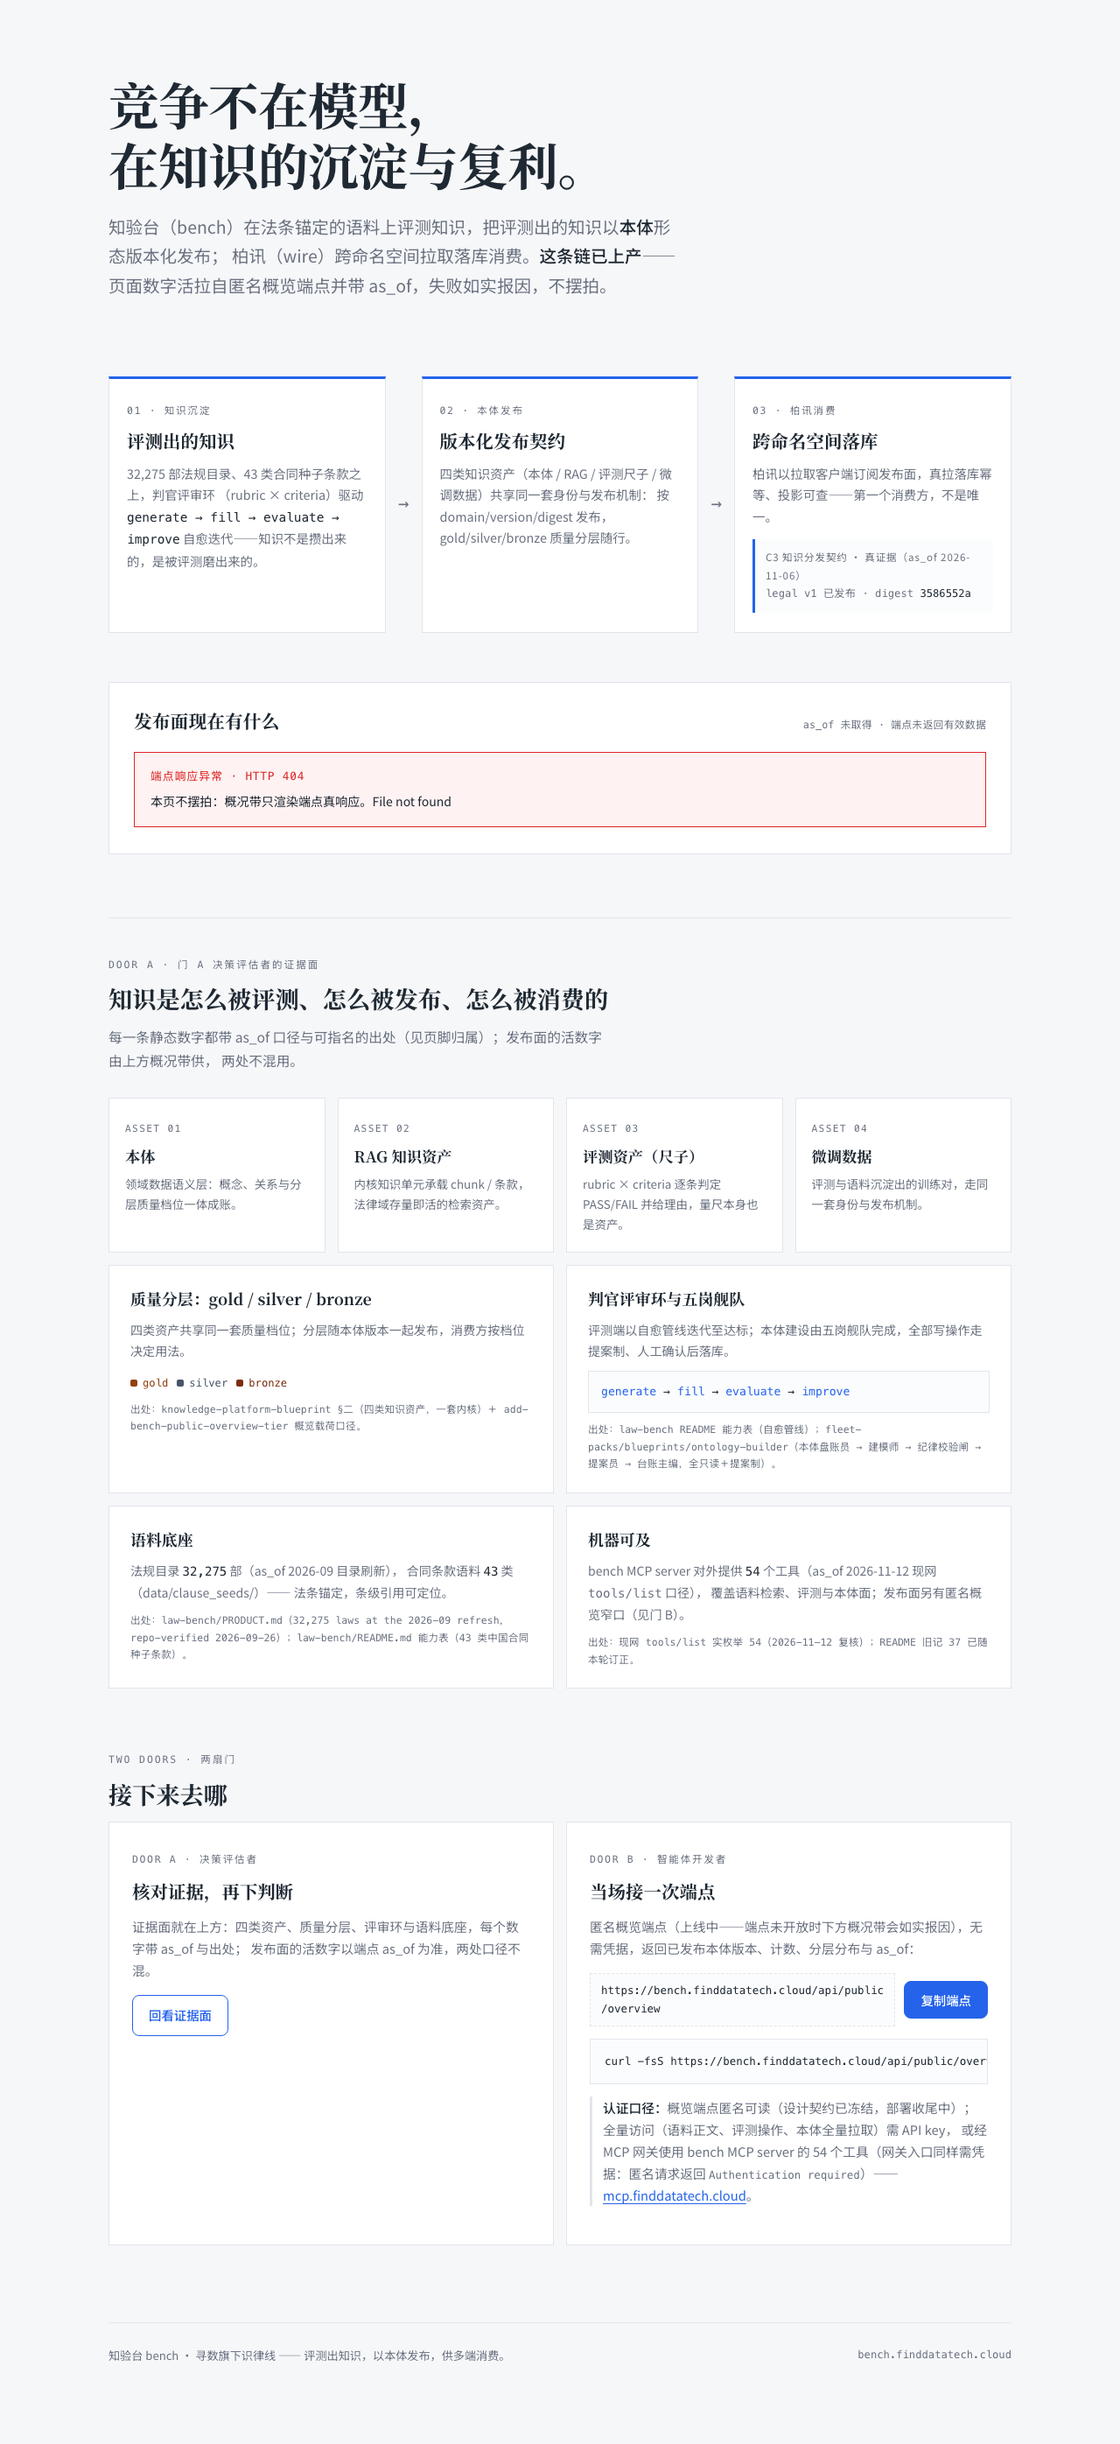
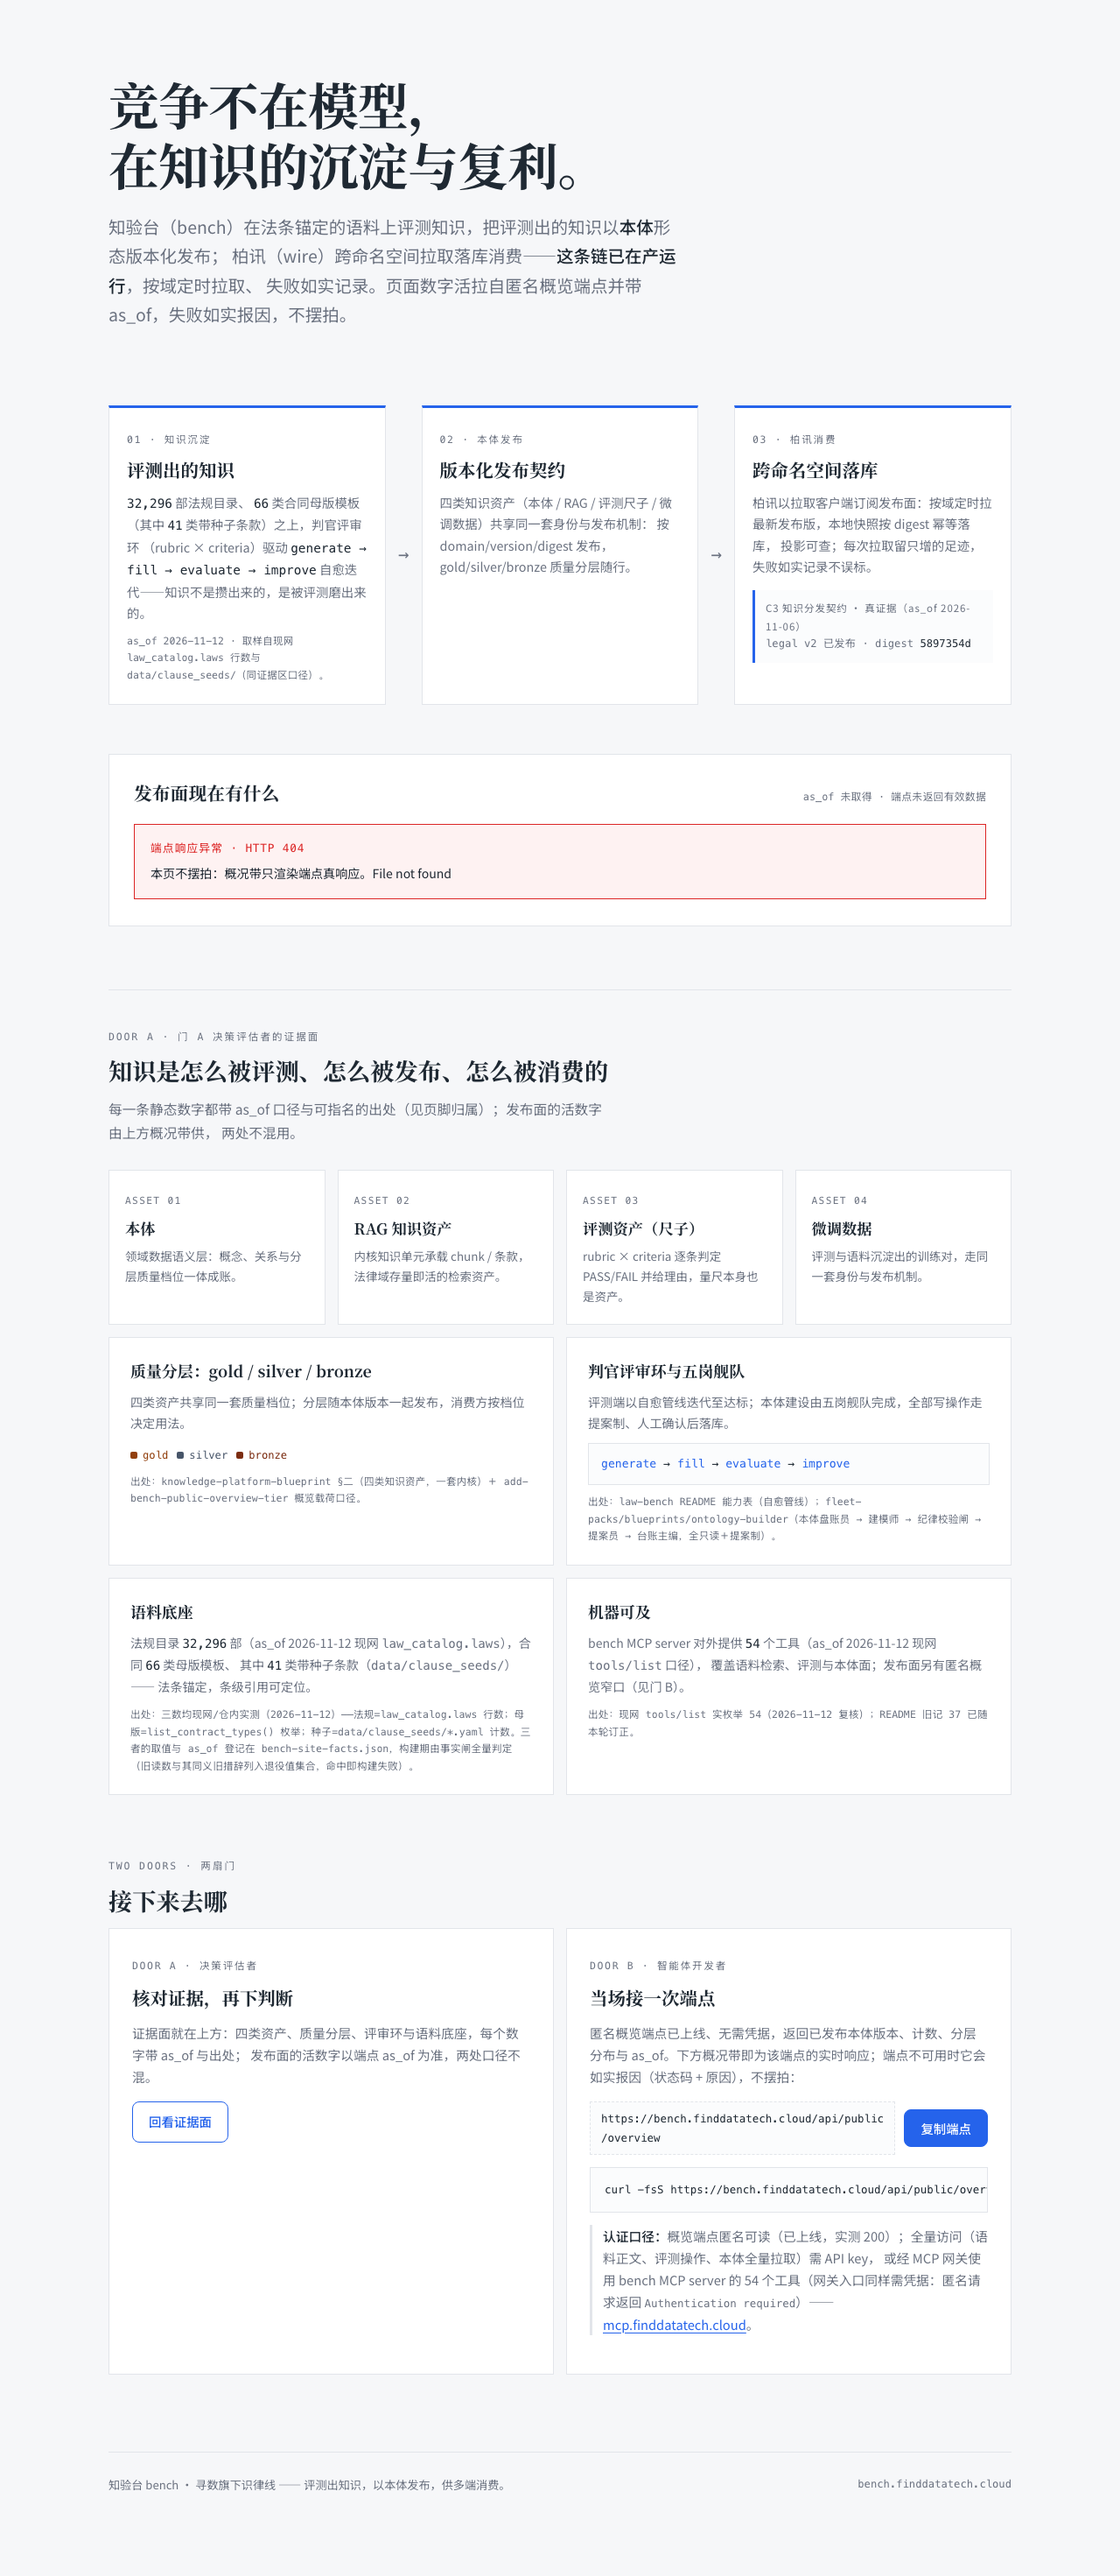
fix(site): 首屏旧数字与门 B 过期文案 —— 并给事实纪律加一道构建期闸
两处都是「spec 写了、从没被执行」的判据：

- 首屏链路节点 ① 仍写 32,275 / 43 类合同种子，同一页证据区写的是 32,296 / 66 母版 /
  41 种子。2026-11-12 的订正只覆盖了证据区，验收报告里「线上旧值命中 0」只对被改的
  那一处成立。归档 change 自己立的 requirement（订正后旧值命中为 0）从未可执行。
- 门 B 仍写「匿名概览端点（上线中…）」「部署收尾中」，而端点已于 11-12 live
  （今日实测 200，legal v2 / 5897354d / 5,117 实体）。

改动：

- `bench-site-facts.json`：事实白名单 + 退役值集合的唯一机器源；brief 不再复述数字。
- `scripts/check_facts.py`：读 dist 全量判定退役值（优先）、白名单外数字、登记了却没上页；
  `--self-check` 五条夹具（1 绿 4 红）证明判据双向有效。
- `scripts/check_status_wording.py`：端点状态陈述探针，三态退出——0 相符 / 1 不符 /
  2 未判定（网络失败不得冒充通过）。
- `.github/workflows/build-check.yml`：本仓第一条 CI，门只有构建 + 事实闸；刻意不并入
  探针（runner 到境内站点抖动会把网络失败变成构建失败，门随后会被绕过）。
- 首屏数字订正、门 B 改按实测陈述；证据区出处注里的旧值原文一并清掉（闸抓出来的）。

diff --git a/scripts/check_facts.py b/scripts/check_facts.py
@@ -1,0 +1,130 @@
+#!/usr/bin/env python3
+"""构建期事实闸：对 dist/ 全量判定白名单与退役值。
+
+为什么读 dist/ 而不是 src/：需要判定的两件事——「白名单外数字」与「退役值命中」——都
+只能对构建产物成立；读源码会漏掉模板拼接与构建期注入。门序因此固定为 build → 本脚本。
+（design D1）
+
+判定顺序：先 retired（命中即失败，无论是否恰等于某个白名单值），再 facts。
+（design D3）
+
+跑法：
+    python3 scripts/check_facts.py                # 读 dist/index.html
+    python3 scripts/check_facts.py --from-remote  # 抓线上产物后判定（上产验收用）
+退出码：0 通过 / 1 失败（含「产物不存在」）。
+"""
+
+from __future__ import annotations
+
+import argparse
+import json
+import re
+import sys
+import urllib.request
+from pathlib import Path
+
+HERE = Path(__file__).resolve().parent
+ROOT = HERE.parent
+FACTS = ROOT / "bench-site-facts.json"
+DIST = ROOT / "dist" / "index.html"
+REMOTE = "https://bench.finddatatech.cloud/"
+
+DATA_RE = re.compile(r'<data[^>]*\bvalue="(\d+)"[^>]*>([^<]*)</data>')
+# 正文里的裸数字串（千分位或纯数字，≥3 位）——只用于「同事实两处口径不一致」与白名单外判定
+BARE_RE = re.compile(r"(?<![\w.,])\d{1,3}(?:,\d{3})+(?![\w,])|(?<![\w.,])\d{4,}(?![\w,])")
+
+
+def fail(lines: list[str]) -> int:
+    for line in lines:
+        print(line, file=sys.stderr)
+    return 1
+
+
+def load_html(from_remote: bool) -> str:
+    if not from_remote:
+        return DIST.read_text(encoding="utf-8")
+    with urllib.request.urlopen(REMOTE, timeout=30) as resp:  # noqa: S310 - 固定 https 目标
+        return resp.read().decode("utf-8")
+
+
+def _check(html: str, spec: dict) -> list[str]:
+    """Return the problem list for one product snapshot (pure)."""
+    problems: list[str] = []
+
+    # ① 退役值优先：出现即失败
+    for item in spec["retired"]:
+        hits = html.count(item["text"])
+        if hits:
+            problems.append(f"✗ 退役值残留：{item['text']!r} 命中 {hits} 次（{item['why']}）")
+
+    # ② 白名单：产物中的 <data value> 必须逐一登记
+    allowed = {str(f["value"]) for f in spec["facts"]}
+    by_value = {str(f["value"]): f for f in spec["facts"]}
+    seen_data: dict[str, int] = {}
+    for value, text in DATA_RE.findall(html):
+        seen_data[value] = seen_data.get(value, 0) + 1
+        if value not in allowed:
+            problems.append(f'✗ 白名单外数字：<data value="{value}">{text}</data>')
+        elif text.strip() != by_value[value]["text"]:
+            problems.append(
+                f'✗ 数字与其登记文本不符：value={value} 产物文本={text.strip()!r} 白名单={by_value[value]["text"]!r}'
+            )
+
+    # ③ 每一条白名单事实都必须在产物中出现（登记了却没上页 = 白名单与页面漂移）
+    for f in spec["facts"]:
+        if str(f["value"]) not in seen_data:
+            problems.append(f"✗ 白名单条目未出现在产物中：{f['id']}（{f['text']}）")
+
+    # ④ 「同一事实两处口径不一致」由 ① + ② 联合覆盖：旧值命中 retired、新值未登记则命中白名单外，
+    #    两者都失败——spec 的判据正是「两处中至少一处被判为白名单外或退役值」。不另做正文裸数字扫描：
+    #    正文里合法地会复述数字（出处注），按形态扫会产生假阳性。
+    return problems
+
+
+def _self_check(spec: dict) -> int:
+    """夹具自检：确认这道闸对「能过」与「该红」都成立（红证纪律）。"""
+    clean = "".join(f'<data value="{f["value"]}">{f["text"]}</data>' for f in spec["facts"])
+    retired_text = spec["retired"][0]["text"]
+    cases = [
+        ("干净产物", clean, False),
+        ("退役值残留", clean + f"<p>{retired_text}</p>", True),
+        ("白名单外数字", clean + '<data value="9999">9,999</data>', True),
+        # 同事实两处口径不一致：首屏旧的 retired 值 + 证据区的新值并存
+        ("同事实两处不一致", clean + f"<p>{retired_text} 部</p>", True),
+        ("白名单条目缺席", clean.replace(f'<data value="{spec["facts"][0]["value"]}">', "<span>"), True),
+    ]
+    bad = 0
+    for name, html, should_fail in cases:
+        got = bool(_check(html, spec))
+        ok = got == should_fail
+        print(f"{'✓' if ok else '✗'} 夹具[{name}] 期望{'红' if should_fail else '绿'} 实得{'红' if got else '绿'}")
+        bad += 0 if ok else 1
+    return 1 if bad else 0
+
+
+def main() -> int:
+    ap = argparse.ArgumentParser()
+    ap.add_argument("--from-remote", action="store_true", help="抓线上产物判定（上产验收）")
+    ap.add_argument("--self-check", action="store_true", help="跑夹具自检（判据本身是否有效）")
+    args = ap.parse_args()
+
+    spec = json.loads(FACTS.read_text(encoding="utf-8"))
+    if args.self_check:
+        return _self_check(spec)
+
+    try:
+        html = load_html(args.from_remote)
+    except FileNotFoundError:
+        return fail([f"✗ 构建产物不存在：{DIST}（先跑 npm run build）"])
+    except Exception as exc:  # noqa: BLE001 - 抓取失败要区分「未判定」而不是「通过」
+        return fail([f"✗ 无法取得产物：{exc}"])
+
+    problems = _check(html, spec)
+    if problems:
+        return fail(problems + [f"\n共 {len(problems)} 处问题。"])
+    print(f"✓ 事实闸通过：白名单 {len(spec['facts'])} 条全在产物中，退役值 {len(spec['retired'])} 条零命中。")
+    return 0
+
+
+if __name__ == "__main__":
+    sys.exit(main())

diff --git a/scripts/check_status_wording.py b/scripts/check_status_wording.py
@@ -1,0 +1,113 @@
+#!/usr/bin/env python3
+"""端点状态陈述探针：页面文案必须与端点实测相符。
+
+它回答一个问题：门 B / 页面上关于端点可用性的措辞，是不是还站得住？
+
+三种输出，退出码各不相同——「跑不了」与「跑过且通过」必须可区分（本仓纪律：
+门从未执行与执行且通过输出一致，会被当成绿）：
+
+    0  相符（端点可用且页面按可用口径陈述，或端点不可用且页面已改回能力口径）
+    1  不符（端点实测与页面措辞矛盾——今天就得改）
+    2  未判定（网络失败/超时/载荷不符预期，判不出来）
+
+跑法：
+    python3 scripts/check_status_wording.py                 # 打线上站点
+    python3 scripts/check_status_wording.py --base http://localhost:8899
+"""
+
+from __future__ import annotations
+
+import argparse
+import json
+import sys
+import urllib.error
+import urllib.request
+from pathlib import Path
+
+HERE = Path(__file__).resolve().parent
+ROOT = HERE.parent
+FACTS = ROOT / "bench-site-facts.json"
+OVERVIEW = "/api/public/overview"
+
+
+def fetch(url: str, timeout: float = 15.0) -> tuple[int, bytes]:
+    req = urllib.request.Request(url, headers={"Accept": "application/json"})
+    try:
+        with urllib.request.urlopen(req, timeout=timeout) as resp:  # noqa: S310 - fixed host from caller
+            return resp.status, resp.read()
+    except urllib.error.HTTPError as exc:
+        return exc.code, exc.read()
+    except Exception as exc:  # noqa: BLE001 - any transport failure is "undetermined", not "pass"
+        raise SystemExit(_undetermined(f"请求失败：{exc}"))
+
+
+def _undetermined(reason: str) -> int:
+    print(f"⚠ 未判定：{reason}", file=sys.stderr)
+    print("（这不是通过——判据没跑成。修好网络或换 --base 后重跑。）", file=sys.stderr)
+    return 2
+
+
+def endpoint_usable(status: int, body: bytes) -> bool:
+    if status != 200:
+        return False
+    try:
+        payload = json.loads(body)
+    except Exception:  # noqa: BLE001
+        return False
+    return (
+        isinstance(payload, dict)
+        and bool(payload.get("as_of"))
+        and isinstance(payload.get("ontology_versions"), list)
+        and len(payload["ontology_versions"]) > 0
+    )
+
+
+def main() -> int:
+    ap = argparse.ArgumentParser()
+    ap.add_argument("--base", default="https://bench.finddatatech.cloud")
+    args = ap.parse_args()
+
+    spec = json.loads(FACTS.read_text(encoding="utf-8"))
+    forbidden = spec["status_wording"]["forbidden_while_live"]
+
+    page_status, page_html = fetch(args.base + "/")
+    if page_status != 200:
+        return _undetermined(f"页面本身返回 HTTP {page_status}")
+    page = page_html.decode("utf-8", "replace")
+
+    api_status, api_body = fetch(args.base + OVERVIEW)
+    live = endpoint_usable(api_status, api_body)
+
+    summary = "（无有效载荷）"
+    if live:
+        payload = json.loads(api_body)
+        counts = payload.get("totals") or {}
+        vs = ", ".join(
+            f"{v.get('domain_key')} v{v.get('version')} {str(v.get('digest'))[:8]}"
+            for v in payload["ontology_versions"]
+        )
+        summary = (
+            f"as_of={payload.get('as_of')} · {vs} · 实体 {counts.get('entities')} / 关系 {counts.get('relations')}"
+        )
+    print(f"页面 HTTP {page_status} · 端点 HTTP {api_status} · 端点可用={live}")
+    print(f"载荷摘要：{summary}")
+
+    if live:
+        stale = [w for w in forbidden if w in page]
+        if stale:
+            print(f"✗ 端点可用，但页面仍含过渡语 {stale} —— 按实测改成可读口径。", file=sys.stderr)
+            return 1
+        print(f"✓ 端点可用，页面无 {forbidden} 类过渡语。")
+        return 0
+
+    # 端点不可用：页面必须已改回能力口径（此处只判「不再声称可用」，具体措辞由人复核）
+    claims_live = "已上线" in page and "端点不可用" not in page
+    if claims_live:
+        print("✗ 端点不可用，但页面仍陈述为已上线 —— 当日改回能力口径。", file=sys.stderr)
+        return 1
+    print("✓ 端点不可用，页面已按能力口径陈述。")
+    return 0
+
+
+if __name__ == "__main__":
+    sys.exit(main())

diff --git a/scripts/site_inspect.py b/scripts/site_inspect.py
@@ -4,11 +4,12 @@ file:// load so hydration hits the same-origin /api/public/overview and lands
 in the honest report-cause state while the endpoint is not live. Asserts:
 non-empty body, expected title, degrade card visible, localStorage API unused.
 """
-import asyncio, json, sys
+import asyncio, json, os, sys
 from pathlib import Path
 from playwright.async_api import async_playwright
 
-DIST = "http://localhost:8899/"
+# SITE_BASE 可覆盖：8899 上常有别的本地服务，撞端口时换个口起 http.server 即可。
+DIST = os.environ.get("SITE_BASE", "http://localhost:8899/")
 OUT = Path("/Users/chengsishi/finddata/fd-bench-web/.impeccable/review")
 
 SHOTS = [("desktop", 1280, 900), ("mobile", 390, 844)]

diff --git a/reports/2026-11-20-facts-gate.md b/reports/2026-11-20-facts-gate.md
@@ -1,0 +1,43 @@
+# 事实闸上产验收（2026-11-20）
+
+change `gate-bench-site-facts`；回滚点 `/opt/fd/bench-web/dist.bak-20261120-113829`。
+
+## 1. 端点状态探针（上产前，按 design D5 记录）
+
+- 时间：2026-11-20T03:38:17Z
+- 命令：`python3 scripts/check_status_wording.py`（打线上站点）
+- 结果：exit 1 —— 「端点可用，但页面仍含过渡语 ['上线中','部署收尾中']」
+- 载荷摘要：as_of=2026-11-12T05:31:02Z · legal v2 5897354d · 实体 5117 / 关系 25
+- 结论：端点自 11-12 起 live，旧文案陈述过期；本 change 的门 B 订正是按此实测做出的。
+
+## 2. 上产后探针
+
+- 时间：2026-11-20T03:44:28Z
+- `python3 scripts/check_status_wording.py`：
+```
+  页面 HTTP 200 · 端点 HTTP 200 · 端点可用=True
+  载荷摘要：as_of=2026-11-12T05:31:02.841819+00:00 · legal v2 5897354d · 实体 5117 / 关系 25
+  ✓ 端点可用，页面无 ['上线中', '部署收尾中'] 类过渡语。
+```
+
+## 3. 线上产物事实闸（--from-remote）
+
+```
+  ✓ 事实闸通过：白名单 4 条全在产物中，退役值 4 条零命中。
+```
+
+线上抓取逐词命中：32,275 **0** / 43 类 **0** / 上线中 **0** / 部署收尾中 **0** / 37 个工具 **0**；
+32,296 **2**（首屏 + 证据区，同口径）。
+
+## 4. 双视口与水合
+
+- `site_inspect.py`（本地 dist，port 8898）：desktop/mobile `h_overflow_px=0`；console 唯一
+  404 是本地 http.server 没有 `/api/public/overview` 反代（预期偏差，非产物缺陷）。
+- 线上真浏览器（1280×900 / 390×844）：`live=1`、`anchorHit=1`、版本表 1 行、as_of 与端点一致、
+  fail-card 0、hOverflow 0、console error 0。
+- `site_anchor_check.py` 双向 PASS：锚对上才亮（live 1 / anchorHit 1），对不上不亮（0 / 0）。
+
+## 5. 判据自身的有效性（红证）
+
+`check_facts.py --self-check` 五条夹具全过：干净绿；退役值/白名单外/两处不一致/条目缺席 四类红。
+`check_status_wording.py` 双向自检：端点可用+旧过渡语 → 红；端点可用+可读口径 → 绿；网络失败 → 未判定（exit 2）。
